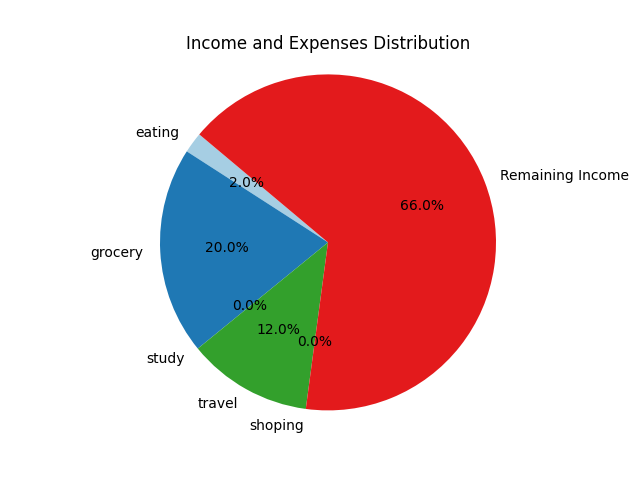
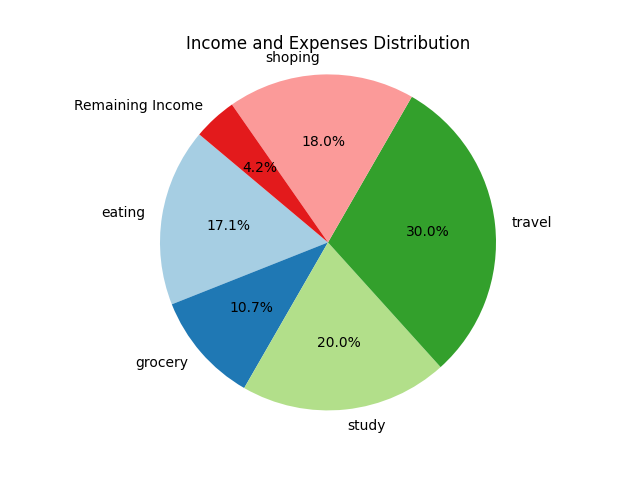
added some interactivity

diff --git a/components/frontPage.py b/components/frontPage.py
@@ -1,9 +1,11 @@
 from PySide6.QtWidgets import ( QWidget, QVBoxLayout,
     QHBoxLayout, QLabel, QPushButton, QStackedLayout
 )
+from PySide6.QtGui import QPixmap
 from components.setincome import SetIncome
 from components.picturewidget import PictureWidget
 from components.addspend import AddSpending
+from scripts.test import Expenses, create_pie_chart
 
 from PySide6.QtGui import QFont
 from PySide6.QtCore import Qt
@@ -16,6 +18,10 @@ class FrontPage(QWidget):
         super().__init__()
         self.mainWindow = mainWindow
         layout = QVBoxLayout()
+
+        # data variables
+        self.income = 0
+        self.expenses = Expenses()
 
         # Title 'Dashboard'
         title_layout = QVBoxLayout()
@@ -31,6 +37,7 @@ class FrontPage(QWidget):
 
         # Top white widgets with labels and text fields
         top_labels_text = ['Income', 'Spent', 'Remainig']
+        self.text_fields = []
         top_layout = QHBoxLayout()
         for i in range(3):
             widget_layout = QVBoxLayout()
@@ -40,6 +47,7 @@ class FrontPage(QWidget):
             text_field = QLabel("0")
             text_field.setFont(QFont("Arial", 18, QFont.Bold))  # Increase text field font size
             text_field.setAlignment(Qt.AlignCenter)  # Center align the text
+            self.text_fields.append(text_field)
             widget_layout.addWidget(label)
             widget_layout.addWidget(text_field)
             widget_widget = QWidget()
@@ -56,14 +64,14 @@ class FrontPage(QWidget):
         layout.addWidget(top_layout_widget)
 
         # Blue area with label and picture
-        pictureWidget = PictureWidget()
-        setIncomeWidget = SetIncome()
-        addSpendingWidget = AddSpending()
+        self.pictureWidget = PictureWidget()
+        setIncomeWidget = SetIncome(self)
+        addSpendingWidget = AddSpending(self)
 
         self.stackLayout = QStackedLayout()
-        self.stackLayout.addWidget(addSpendingWidget)
         self.stackLayout.addWidget(setIncomeWidget)
-        self.stackLayout.addWidget(pictureWidget)
+        self.stackLayout.addWidget(addSpendingWidget)
+        self.stackLayout.addWidget(self.pictureWidget)
 
         layout.addLayout(self.stackLayout)
 
@@ -74,7 +82,7 @@ class FrontPage(QWidget):
             button = QPushButton(button_labels_text[i])
             button.setFixedSize(250, 50)
             
-            button.clicked.connect(self.popup(i))
+            button.clicked.connect(self.switch_stack_widgets(i))
             button.setCursor(Qt.PointingHandCursor)
             button.setStyleSheet("""
                 QPushButton {
@@ -98,19 +106,11 @@ class FrontPage(QWidget):
 
         self.setLayout(layout)
 
-    def popup(self, index):
-        if index == 1:
-            self.set_income()
-        elif index == 2:
-            self.enter_spend()
-        else:
-            self.add_category()
-
-    def set_income(self):
-        pass
-
-    def enter_spend(self):
-        pass
-
-    def add_category(self):
-        pass
+    def switch_stack_widgets(self, index):
+        def switch():
+            if index == 2:
+                create_pie_chart(self.income, self.expenses)
+    
+                self.pictureWidget.picture.setPixmap(QPixmap(os.path.join(baseadress, '../assets/graph.png')).scaled(750, 300, Qt.KeepAspectRatio))
+            self.stackLayout.setCurrentIndex(index)
+        return switch

diff --git a/components/addspend.py b/components/addspend.py
@@ -1,5 +1,4 @@
 from PySide6.QtWidgets import (
-    QApplication,
     QLabel,
     QComboBox,
     QDoubleSpinBox,
@@ -9,9 +8,16 @@ from PySide6.QtWidgets import (
     QWidget
 )
 from PySide6.QtCore import Qt
+from scripts.test import Expense
+
 class AddSpending(QWidget):
-    def __init__(self):
+    def __init__(self, front_page):
         super().__init__()
+        self.front_page = front_page
+        self.expense_list = []
+
+        for i in self.front_page.expenses:
+            self.expense_list.append(i.get_name())
         
         self.layout = QVBoxLayout()
 
@@ -25,6 +31,10 @@ class AddSpending(QWidget):
         self.input1Label = QLabel("Amount :")
         self.input1Label.setStyleSheet("")
         self.input1 = QDoubleSpinBox()
+        self.input1.setMinimum(0.0)
+        self.input1.setMaximum(10000000.0)
+        self.input1.setDecimals(0)
+        self.input1.setValue(0)
         self.input1Layout.addWidget(self.input1Label)
         self.input1Layout.addWidget(self.input1)
         self.input1widget = QWidget()
@@ -33,7 +43,7 @@ class AddSpending(QWidget):
         self.input2Layout = QHBoxLayout()
         self.input2Label = QLabel("Category :")
         self.input2 = QComboBox()
-        self.input2.addItems(["item1", "item2", "item3", "item4", "item5"])
+        self.input2.addItems(self.expense_list)
         self.input2Layout.addWidget(self.input2Label)
         self.input2Layout.addWidget(self.input2)
         self.input2widget = QWidget()
@@ -47,9 +57,9 @@ class AddSpending(QWidget):
         self.inputwidget.setStyleSheet(self.input_style())
         self.inputwidget.setLayout(self.inputLayout)
 
-
         self.buttonLayout = QHBoxLayout()
         self.setButton = QPushButton("Enter")
+        self.setButton.clicked.connect(self.enter_button_clicked())
         self.buttonLayout.addWidget(self.setButton)
         self.buttonWidget = QWidget()
         self.buttonWidget.setLayout(self.buttonLayout)
@@ -137,3 +147,15 @@ class AddSpending(QWidget):
                 border: 2px solid #099eb1;
             }
         """
+    
+    def enter_button_clicked(self):
+        def enter_spending():
+            amount = self.input1.text()
+            index = self.input2.currentIndex()
+            self.input1.setValue(0)
+            self.input2.setCurrentIndex(0)
+            self.front_page.expenses[index].add_amount(int(amount))
+            self.front_page.text_fields[1].setText(str(Expense.total_expanse))
+            self.front_page.text_fields[2].setText(str(self.front_page.income-Expense.total_expanse))
+            
+        return enter_spending

diff --git a/components/setincome.py b/components/setincome.py
@@ -1,28 +1,34 @@
 from PySide6.QtWidgets import QLabel, QDoubleSpinBox, QPushButton, QVBoxLayout, QHBoxLayout, QWidget
 from PySide6.QtCore import Qt
+from scripts.test import Expense
 class SetIncome(QWidget):
-    def __init__(self):
+    def __init__(self, front_page):
         super().__init__()
-        
+        self.front_page = front_page
         layout = QVBoxLayout()
 
         label = QLabel("Enter Your Income")
         label.setAlignment(Qt.AlignCenter)
         label.setStyleSheet(self.title_style())
 
-        input = QDoubleSpinBox()
-        input.setAlignment(Qt.AlignCenter)
-        input.setStyleSheet(self.input_style())
+        self.input = QDoubleSpinBox()
+        self.input.setMinimum(0.0)
+        self.input.setMaximum(10000000.0)
+        self.input.setDecimals(0)
+        self.input.setValue(0)
+        self.input.setAlignment(Qt.AlignCenter)
+        self.input.setStyleSheet(self.input_style())
 
         buttonLayout = QHBoxLayout()
         setButton = QPushButton("Set")
+        setButton.clicked.connect(self.set_button_clicked())
         buttonLayout.addWidget(setButton)
         buttonWidget = QWidget()
         buttonWidget.setLayout(buttonLayout)
         buttonWidget.setStyleSheet(self.button_style())
 
         layout.addWidget(label)
-        layout.addWidget(input)
+        layout.addWidget(self.input)
         layout.addWidget(buttonWidget)
         
         widget = QWidget()
@@ -81,3 +87,12 @@ class SetIncome(QWidget):
                 border: 2px solid #099eb1;
             }
         """
+    
+    def set_button_clicked(self):
+        def update_income():
+            self.front_page.income = int(self.input.text())
+            self.front_page.text_fields[0].setText(str(self.front_page.income))
+            self.front_page.text_fields[2].setText(str(self.front_page.income-Expense.total_expanse))
+            self.front_page.stackLayout.setCurrentIndex(1)
+            self.input.setValue(0)
+        return update_income

diff --git a/components/picturewidget.py b/components/picturewidget.py
@@ -23,16 +23,16 @@ class PictureWidget(QWidget):
         picture_label_layout.addWidget(picture_label)
         picture_layout.addWidget(picture_label_widget)
         
-        picture = QLabel()
+        self.picture = QLabel()
         pixmap = QPixmap(os.path.join(baseadress, '../assets/graph.png'))
-        picture.setPixmap(pixmap.scaled(750, 300, Qt.KeepAspectRatio))
-        picture.setAlignment(Qt.AlignCenter)
-        picture.setStyleSheet("""
+        self.picture.setPixmap(pixmap.scaled(750, 300, Qt.KeepAspectRatio))
+        self.picture.setAlignment(Qt.AlignCenter)
+        self.picture.setStyleSheet("""
             background-color: white;
             border: 1px solid #ccc;
             border-radius: 10px;
         """)
         
-        picture_layout.addWidget(picture)
+        picture_layout.addWidget(self.picture)
         self.setLayout(picture_layout)
         

diff --git a/scripts/test.py b/scripts/test.py
@@ -57,16 +57,8 @@ def create_pie_chart(income, expenses):
 
     plt.title("Income and Expenses Distribution")
 
-    plt.savefig('graph')
+    file_path = "./assets/graph.png"
 
-if __name__ == '__main__':
-    expenses = Expenses()
-
-    expenses[0].add_amount(2000)
-
-    for e in expenses:
-        print(e.get_name(),':',e.get_amount())
-
-    expenses.add_expense('sports', 3000) 
-
-    print(Expense.total_expanse)
+    print("executed")
+    plt.savefig(file_path)
+    print("picture saved")

diff --git a/app.py b/app.py
@@ -2,7 +2,6 @@ from PySide6.QtWidgets import (
     QApplication, QMainWindow,
 )
 from components.frontPage import FrontPage
-from components.setincome import SetIncome
 
 
 class MainWindow(QMainWindow):
